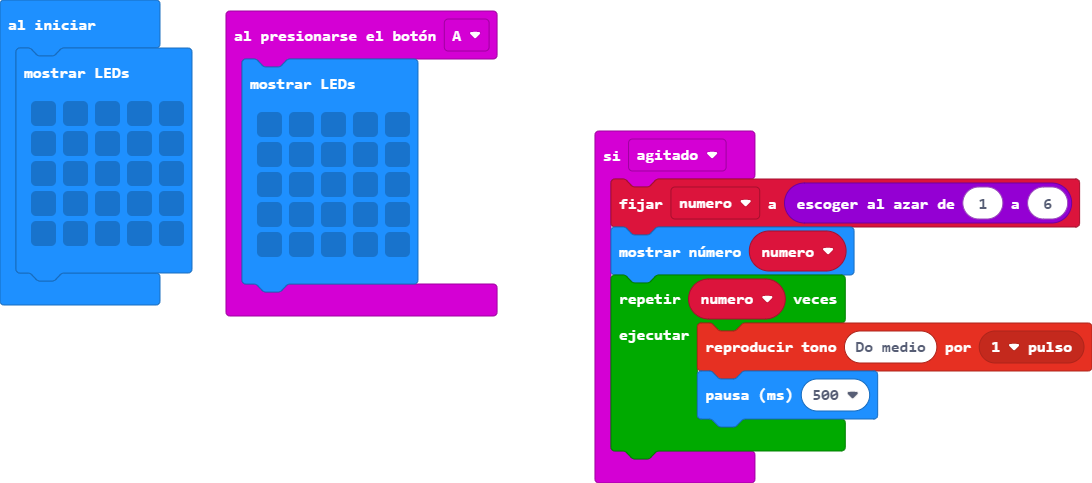
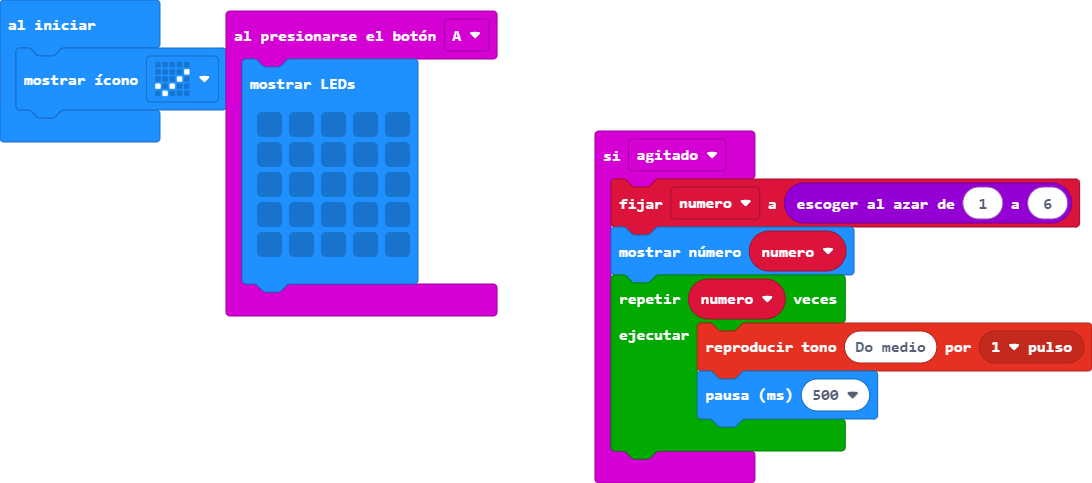
Actualizar main.blocks, main.ts

Changed region(s): [[0.0, 0.0932, 0.2179, 0.6522]]

diff --git a/main.ts b/main.ts
@@ -16,10 +16,4 @@ input.onGesture(Gesture.Shake, function () {
     }
 })
 let numero = 0
-basic.showLeds(`
-    . . . . .
-    . . . . .
-    . . . . .
-    . . . . .
-    . . . . .
-    `)
+basic.showIcon(IconNames.Yes)
